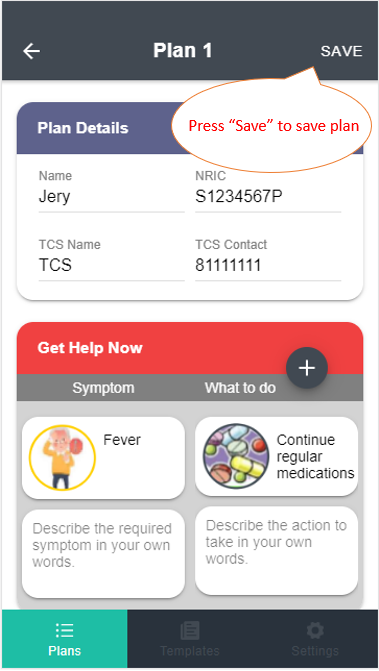
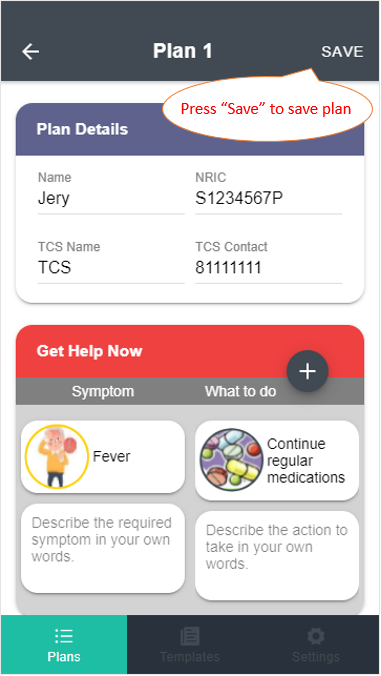
update tutorial pictures plans/templates align center image/text

diff --git a/src/app/settings/tutorial/tutorial.page.ts b/src/app/settings/tutorial/tutorial.page.ts
@@ -18,7 +18,8 @@ export class TutorialPage implements OnInit {
   selectedTab = "templates"
 
   templateList = ["assets/tutorial_template1.png", "assets/tutorial_template2.png", "assets/tutorial_template3.png", "assets/tutorial_template4.png", "assets/tutorial_template5.png", 
-                  "assets/tutorial_template6.png", "assets/tutorial_template7.png", "assets/tutorial_template8.png", "assets/tutorial_template9.png", "assets/tutorial_template10.png"]
+                  "assets/tutorial_template6.png", "assets/tutorial_template7.png", "assets/tutorial_template8.png", "assets/tutorial_template9.png", "assets/tutorial_template10.png",
+                  "assets/tutorial_template11.png", "assets/tutorial_template12.png"]
   planList = ["assets/tutorial_plan1.png", "assets/tutorial_plan2.PNG", "assets/tutorial_plan3.png", "assets/tutorial_plan4.png", "assets/tutorial_plan5.png", 
               "assets/tutorial_plan6.PNG", "assets/tutorial_plan7.png", "assets/tutorial_plan8.png", "assets/tutorial_plan9.png", "assets/tutorial_plan10.png", 
               "assets/tutorial_plan11.png", "assets/tutorial_plan12.png", "assets/tutorial_plan13.png"]
